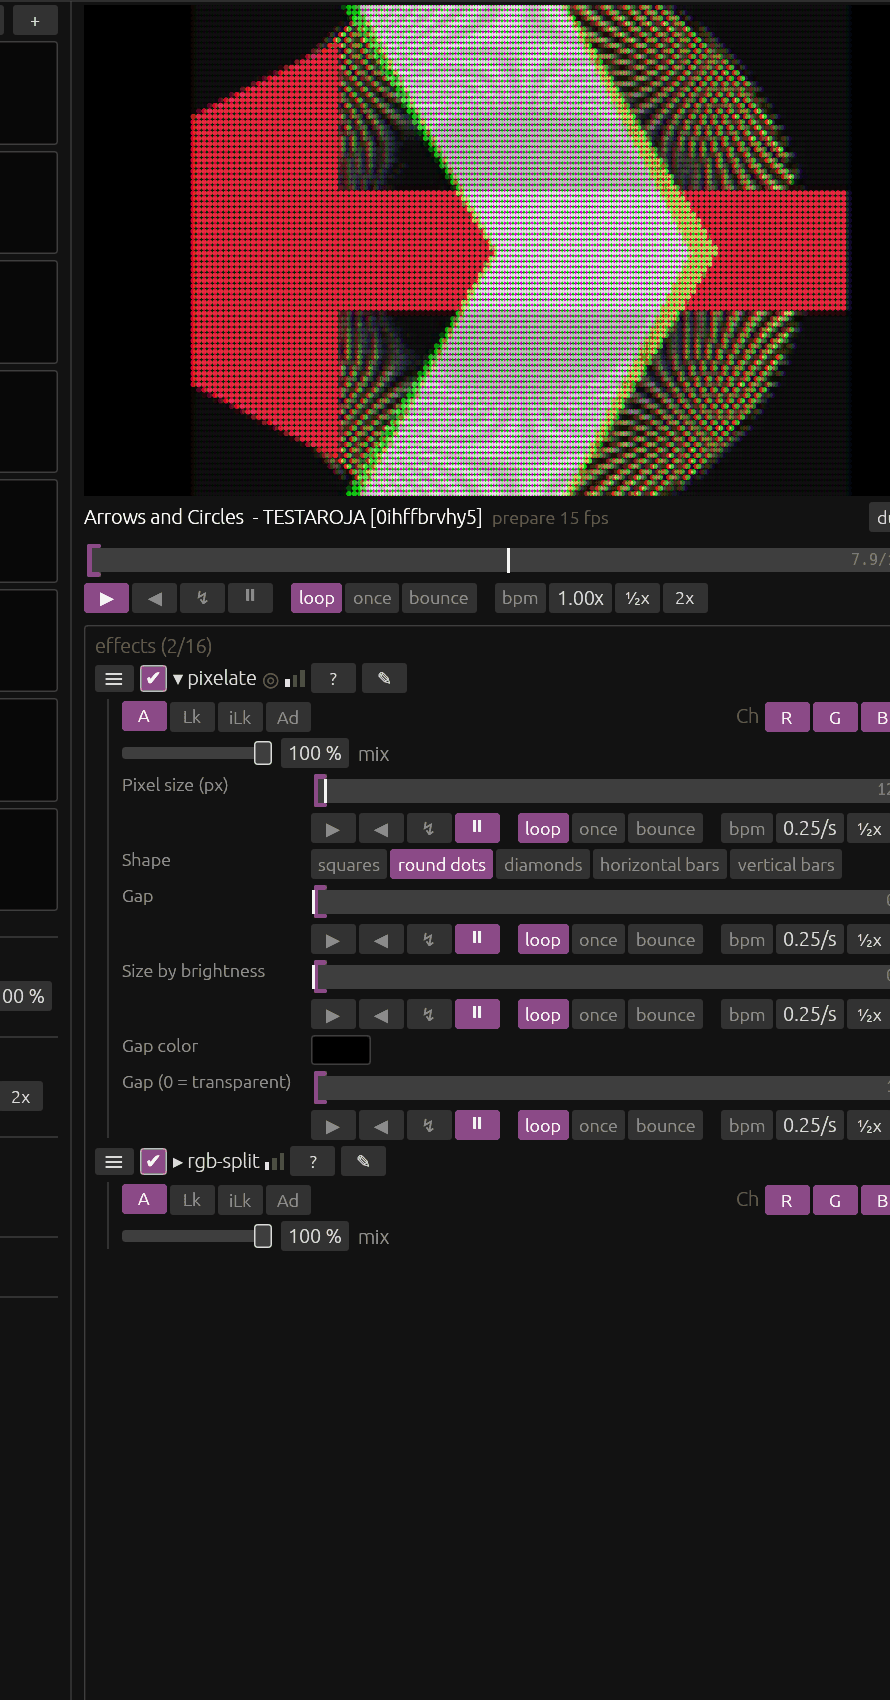
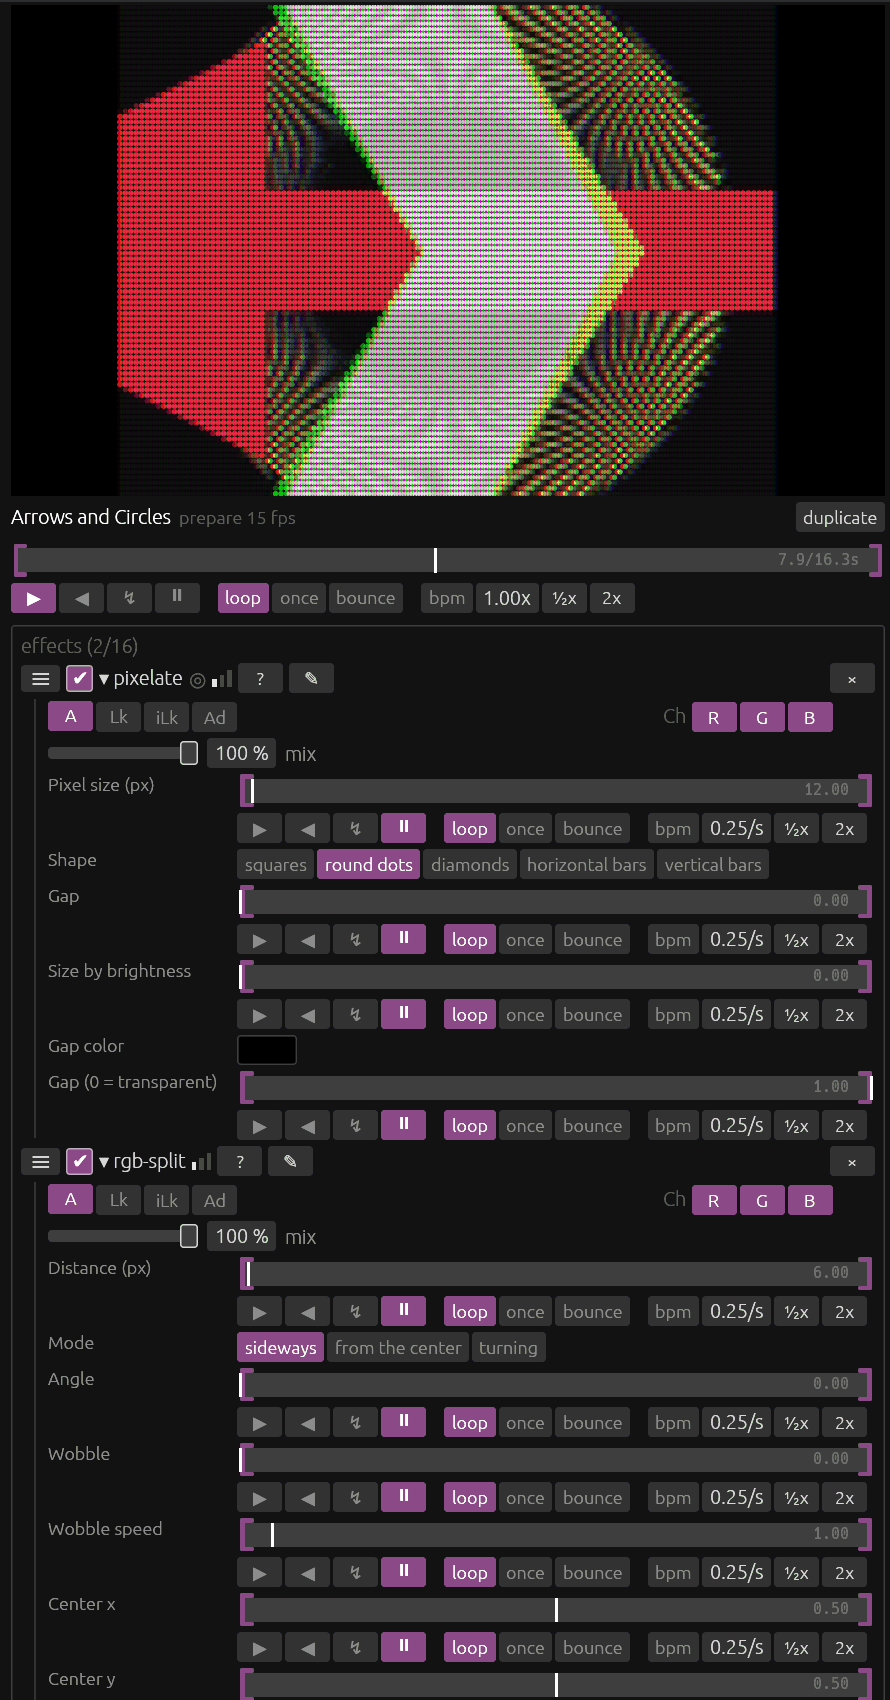
Screenshots: starfield forms over NDI, wireframe blobs, both effects unfolded
- layer 2: the starfield warp with big mixed geometric forms over NDI (luma key),
  layer 1: the melting blobs as a wireframe (transparent), layer 3: the recording
- the selected clip shows both effects unfolded (pixelate, rgb split)
- the videopong clip gets a short link name: a long one widened the finder column
  and shifted every crop; scripts/screenshots.py --only renews just some pictures

diff --git a/scripts/screenshots.py b/scripts/screenshots.py
@@ -1,12 +1,14 @@
 #!/usr/bin/env python3
 """Make all screenshots of the website and the manual (website/img/*.png) from self-tests.
 
-usage: scripts/screenshots.py [--recording <mp4>] [--query arrow]
+usage: scripts/screenshots.py [--recording <mp4>] [--query arrow] [--only overview,mixer,ai]
 
-Sources in the pictures: a generator from the pack (kaleido flower), an NDI source (a second
-self-test videoping sends the pack's endless corridor as "corridor"), your last recording (the newest
-mp4 in ~/Videos/videoping, or --recording) and the first videopong.net clip of the search (--query,
-default "arrow"; needs the internet). Every self-test runs in its own temporary folder, never with your
+Sources in the pictures: a generator from the pack (melting blobs as a wireframe, transparent
+background, on top), an NDI source (a second self-test videoping sends the pack's starfield warp with
+big mixed geometric forms as "starfield", luma-keyed), your
+last recording (the newest mp4 in ~/Videos/videoping, or --recording) and the first videopong.net
+clip of the search (--query, default "arrow"; needs the internet). --only writes just those pictures
+(names without .png). Every self-test runs in its own temporary folder, never with your
 session, config or autosave; the ai pictures use the mocks scripts/ai-mock-*.py (no key, nothing is
 billed). The NDI library has to be installed (see install.md). The window has to come out 3000x1818
 (the crops are made for that). Build first: cargo build --release
@@ -22,6 +24,7 @@ def opt(name, default):
 recordings = sorted(glob.glob(os.path.expanduser("~/Videos/videoping/*.mp4")), key=os.path.getmtime)
 recording = os.path.abspath(opt("--recording", recordings[-1] if recordings else ""))
 query = opt("--query", "arrow")
+only = set(opt("--only", "").split(",")) - {""}
 if not os.path.isfile(recording):
     sys.exit("no recording: pass --recording <mp4>")
 repo = os.path.dirname(os.path.dirname(os.path.abspath(__file__)))
@@ -70,6 +73,8 @@ def pal(im, n=160):
 
 
 def save(im, name):
+    if only and name[:-4] not in only:
+        return
     im.save(os.path.join(out, name), optimize=True)
     print("wrote", name, im.size)
 
@@ -99,13 +104,14 @@ if not vpclips:
 vpclip = vpclips[0]
 print("videopong clip:", os.path.basename(vpclip))
 
-# 2. the NDI source: a second videoping sends the endless corridor as "corridor"
-sender_session = session([{"id": 1, "name": "corridor", "source": {"Generator": {"path": f"{pack}/generators/endless-corridor.fs", "params": []}}, "effects": [], "seed": 0.3}],
+# 2. the NDI source: a second videoping sends the starfield (big mixed geometric forms) as "starfield"
+sender_session = session([{"id": 1, "name": "starfield", "source": {"Generator": {"path": f"{pack}/generators/starfield-warp.fs",
+                          "params": [{"name": "style", "value": anim(8.0, 0.0, 8.0)}, {"name": "formSize", "value": anim(6.0, 0.3, 16.0)}]}}, "effects": [], "seed": 0.3}],
                          [{"instance": 1, "active": True, "mix": MIX()}, {"instance": None, "active": True, "mix": MIX()}, {"instance": None, "active": True, "mix": MIX()}], None, [pack])
-sender_session["output"].update({"ndi_enabled": True, "ndi_name": "corridor"})
+sender_session["output"].update({"ndi_enabled": True, "ndi_name": "starfield"})
 sender, _, _ = start("ndi-sender", {"VIDEOPING_SELFTEST_STAY": "300", "VIDEOPING_SELFTEST_SHOT_AT": "290"}, sender_session)
 try:
-    # its full network name ("MACHINE (corridor)"), from a probe with MCP
+    # its full network name ("MACHINE (starfield)"), from a probe with MCP
     mport = str(port0 + 60)
     probe, _, _ = start("ndi-probe", {"VIDEOPING_SELFTEST_MCP": mport, "VIDEOPING_SELFTEST_STAY": "40"})
     ndi = None
@@ -114,7 +120,7 @@ try:
         try:
             req = urllib.request.Request(f"http://127.0.0.1:{mport}/mcp", json.dumps({"jsonrpc": "2.0", "id": 1, "method": "tools/call", "params": {"name": "list_files", "arguments": {"kind": "ndi"}}}).encode(), {"Content-Type": "application/json"})
             text = json.load(urllib.request.urlopen(req, timeout=5))["result"]["content"][0]["text"]
-            ndi = next((l.split(" | ", 1)[1] for l in text.splitlines() if l.startswith("ndi | ") and "(corridor)" in l), None)
+            ndi = next((l.split(" | ", 1)[1] for l in text.splitlines() if l.startswith("ndi | ") and "(starfield)" in l), None)
             if ndi:
                 break
         except Exception:
@@ -127,17 +133,20 @@ try:
     # 3. the session of the pictures; the finder shows only these clips (a folder of links to them)
     media = tempfile.mkdtemp(prefix="vp-shot-media-")
     rec_link = os.path.join(media, os.path.basename(recording))
-    vp_link = os.path.join(media, os.path.basename(vpclip))
+    # a short name: a long one widens the finder column and shifts every crop to its right
+    short = os.path.basename(vpclip).split(" - ")[0].split(" [")[0].strip()
+    vp_link = os.path.join(media, (short or "videopong clip") + ".mp4")
     os.symlink(recording, rec_link)
     os.symlink(vpclip, vp_link)
     recording, vpclip = rec_link, vp_link
     slots = [
-        {"id": 1, "name": "kaleido flower", "source": {"Generator": {"path": f"{pack}/generators/kaleido-flower.fs", "params": [{"name": "bgAlpha", "value": anim(0.0, 0.0, 1.0)}]}}, "effects": [], "seed": 0.5},
-        {"id": 2, "name": "corridor (NDI)", "source": {"Ndi": {"source": ndi}}, "effects": [], "seed": 0.5},
+        {"id": 1, "name": "melting blobs", "source": {"Generator": {"path": f"{pack}/generators/melting-blobs.fs",
+         "params": [{"name": "style", "value": anim(1.0, 0.0, 4.0)}, {"name": "bgAlpha", "value": anim(0.0, 0.0, 1.0)}]}}, "effects": [], "seed": 0.5},
+        {"id": 2, "name": "starfield (NDI)", "source": {"Ndi": {"source": ndi}}, "effects": [], "seed": 0.5},
         {"id": 3, "name": os.path.splitext(os.path.basename(recording))[0], "source": {"Clip": {"path": recording, "transport": dict(TRANSPORT)}}, "effects": [], "seed": 0.5},
         {"id": 4, "name": os.path.splitext(os.path.basename(vpclip))[0], "source": {"Clip": {"path": vpclip, "transport": dict(TRANSPORT)}},
          "effects": [{"uid": 10, "path": f"{pack}/effects/pixelate.fs", "active": True, "mix": MIX(), "params": [{"name": "shape", "value": anim(1.0, 0.0, 4.0)}], "seed": 0.5, "open": True},
-                     {"uid": 11, "path": f"{pack}/effects/rgb-split.fs", "active": True, "mix": MIX(), "params": [], "seed": 0.5, "open": False}], "seed": 0.5},
+                     {"uid": 11, "path": f"{pack}/effects/rgb-split.fs", "active": True, "mix": MIX(), "params": [], "seed": 0.5, "open": True}], "seed": 0.5},
     ]
     layers = [{"instance": 1, "active": True, "mix": MIX()}, {"instance": 2, "active": True, "mix": MIX("LumaKey")}, {"instance": 3, "active": True, "mix": MIX()}]
     main = session(slots, layers, 4, [pack, media])

diff --git a/features.md b/features.md
@@ -828,11 +828,17 @@ earlier idea, decided 2026-11-21:
 - scripts/screenshots.py makes all of them from self-tests (one per picture, own folder, never the user's data;
   ai pictures with the mocks scripts/ai-mock-live.py / ai-mock-shader.py, no key); crops for a 3000x1818 window;
   the top bar is stitched (tabs + right side, without the empty middle)
-- what they show (the user: no color-bar test clip, not the "tunnel" clip): four kinds of sources: the pack's kaleido
-  flower (layer 1, transparent background), an NDI source (a second self-test videoping sends the endless corridor
-  as "corridor"; layer 2, luma key), the user's last recording (layer 3), the first videopong.net clip of "arrow"
+- what they show (the user: no color-bar test clip, not the "tunnel" clip; then: not kaleido flower + corridor, "the
+  weakest generators of the pack, not graphic enough"; previews of six combinations, the user chose the starfield
+  with geometric forms): four kinds of sources: the pack's melting blobs as a wireframe (layer 1, transparent
+  background), an NDI source (a second self-test videoping sends the starfield warp, mixed forms at size 6, as
+  "starfield"; layer 2, luma key: NDI pictures are opaque, the key lets the recording through), the user's last
+  recording (layer 3), the first videopong.net clip of "arrow"
   (selected, pixelate with its choice buttons + rgb split); the finder shows only those two clips; the videopong
   picture shows the "arrow" search
+- the selected clip's two effects are both unfolded (the user: "the prepare needs to expand the effect"); the
+  videopong clip gets a short link name ("Arrows and Circles"): a long name widens the finder column and shifts
+  every crop to its right; --only <names> renews just some pictures
 - self-test: VIDEOPING_SELFTEST_SESSION=<json> (a session instead of the built-in one, no mouse script),
   VIDEOPING_SELFTEST_SHOT_AT=<seconds> (a later screenshot, e.g. until NDI shows)
 

diff --git a/dev.md b/dev.md
@@ -154,12 +154,12 @@ Screenshots of the website and the manual (`website/img/*.png`, 11 pictures) com
 
 ```sh
 cargo build --release
-scripts/screenshots.py            # [--recording <mp4>] [--query arrow]
+scripts/screenshots.py            # [--recording <mp4>] [--query arrow] [--only overview,mixer,ai]
 ```
 
-The pictures show four kinds of sources: the pack's kaleido flower (layer 1, transparent background),
-an NDI source (a second self-test videoping sends the pack's endless corridor as "corridor"; layer 2,
-luma key), your last recording (the newest mp4 in `~/Videos/videoping`; layer 3) and the first
+The pictures show four kinds of sources: the pack's melting blobs as a wireframe (layer 1, transparent
+background), an NDI source (a second self-test videoping sends the pack's starfield warp with big mixed
+geometric forms as "starfield"; layer 2, luma key), your last recording (the newest mp4 in `~/Videos/videoping`; layer 3) and the first
 videopong.net clip of the search "arrow" (selected, with pixelate and rgb split). Needs the internet
 and the NDI library. Every self-test runs in its own temporary folder, never with your session or
 config; the finder shows only the two clips (a folder of links); the ai pictures use the mocks
